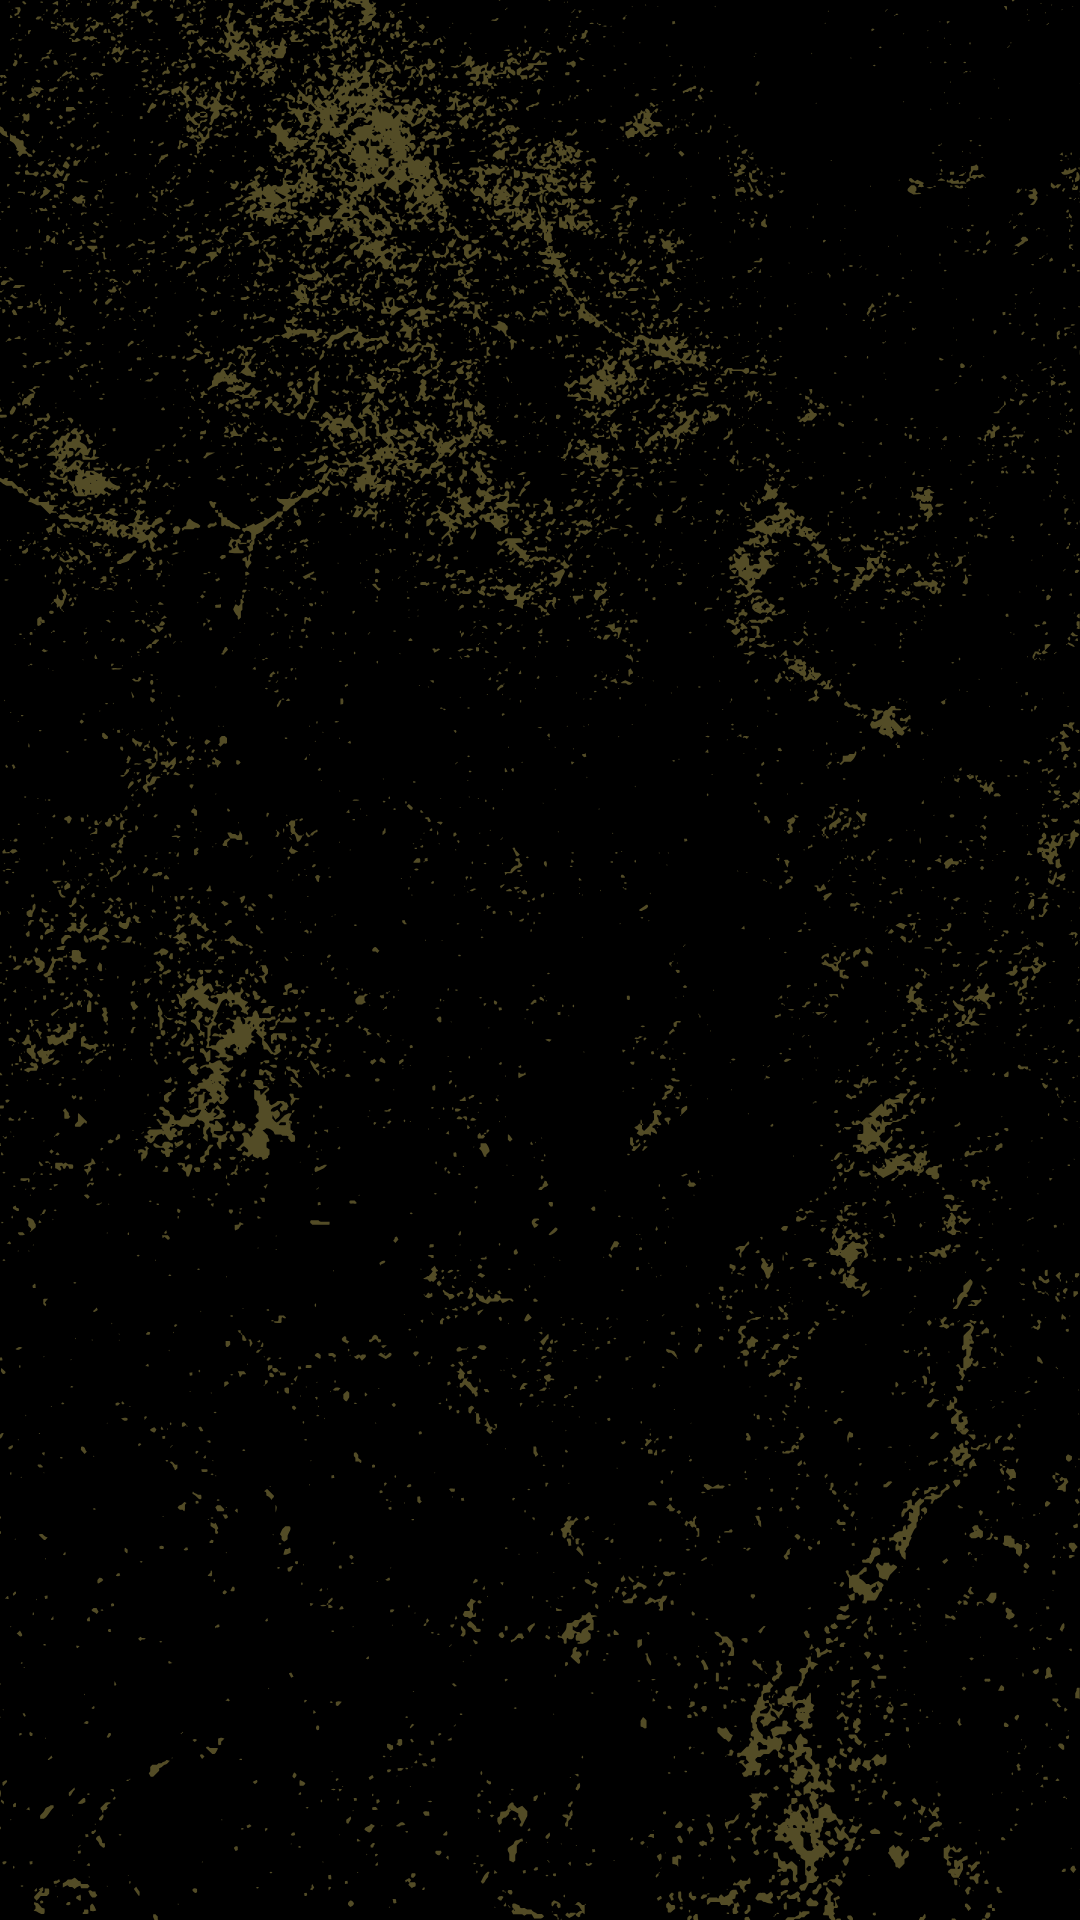
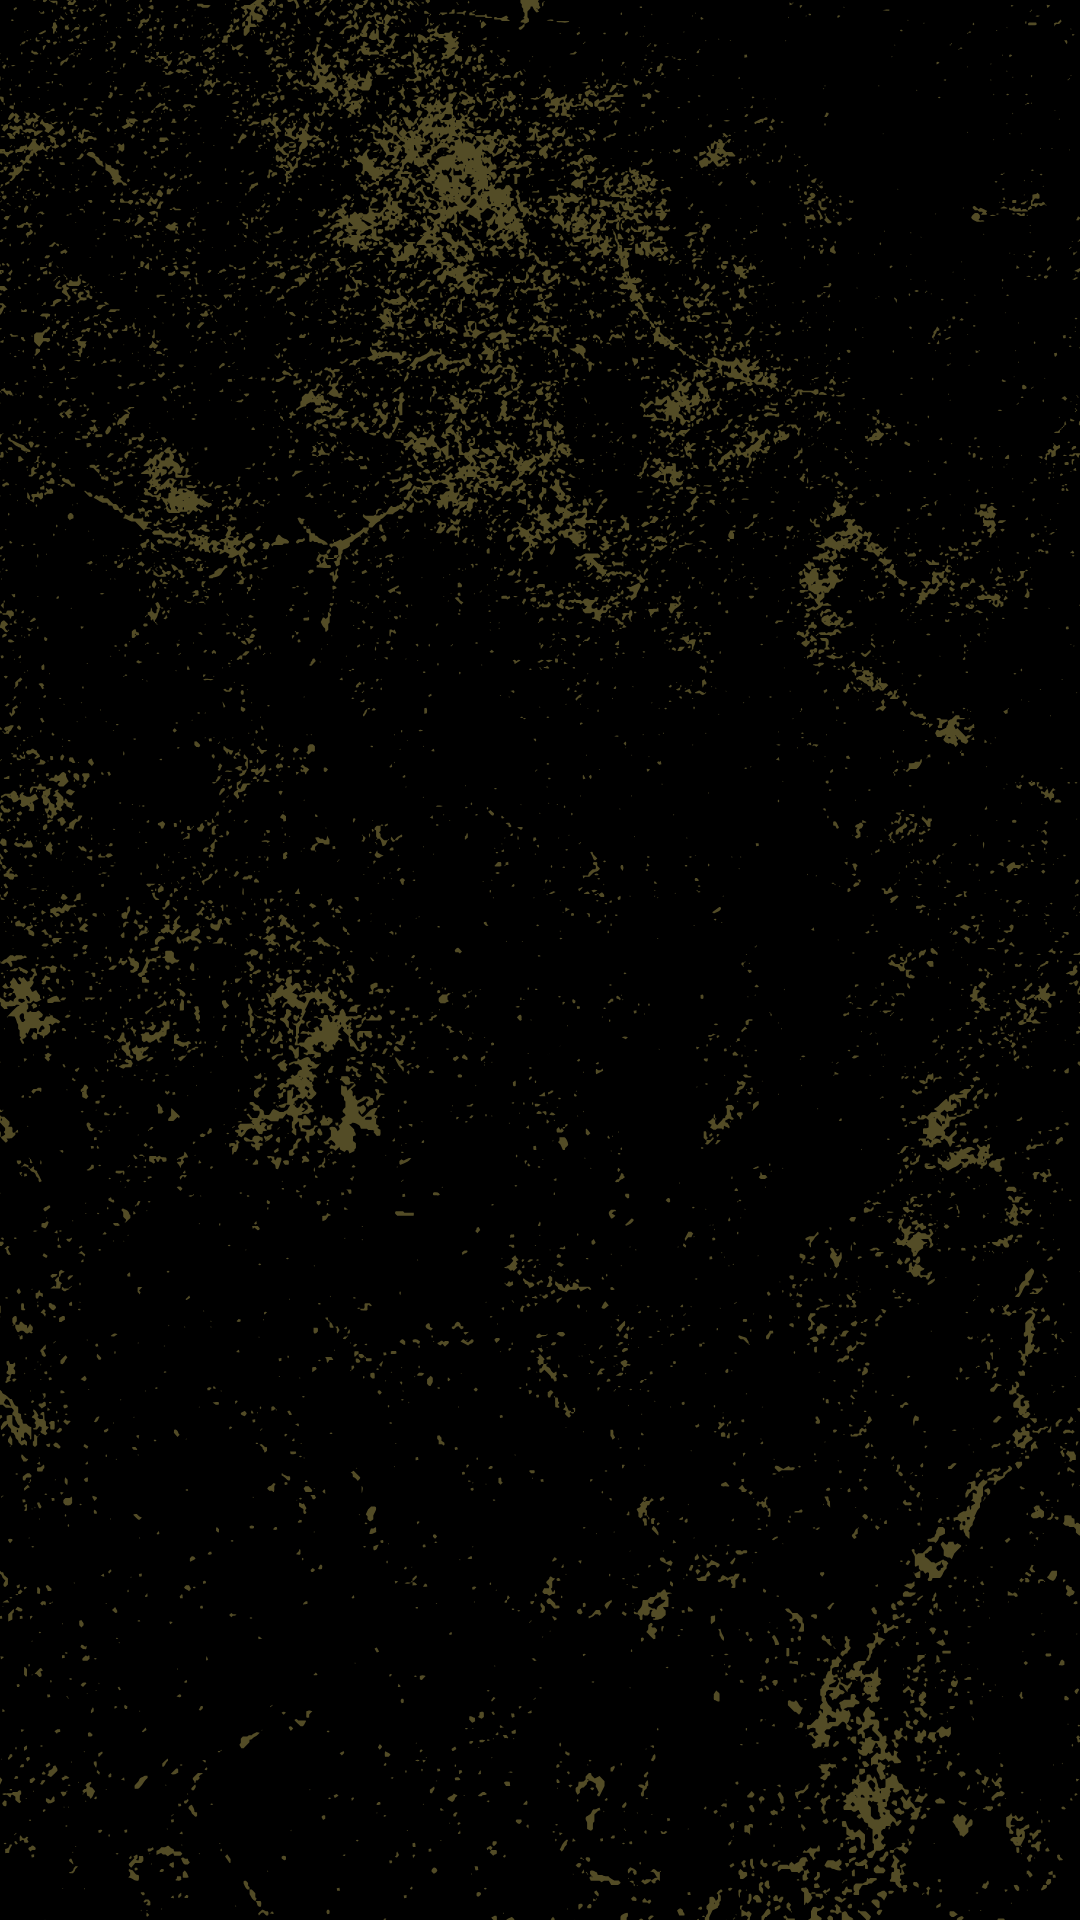
Reemplazado video por imagen de fondo

diff --git a/success.html b/success.html
@@ -6,11 +6,7 @@
     <link rel="stylesheet" href="style.css">
 </head>
 <body>
-    <!-- Video de fondo -->
-    <video autoplay muted loop id="bg-video">
-        <source src="fondo.png" type="png">
-        Tu navegador no soporta video HTML5.
-    </video>
+
 
     <!-- Capa oscura + contenido centrado -->
     <div class="overlay">

diff --git a/style.css b/style.css
@@ -34,7 +34,7 @@ body {
 /* Logo grande pero adaptable */
 .logo {
   width: 300px;
-  max-width: 90vw;
+  max-width: 100%;
   height: auto;
   margin-bottom: 40px;
 }
